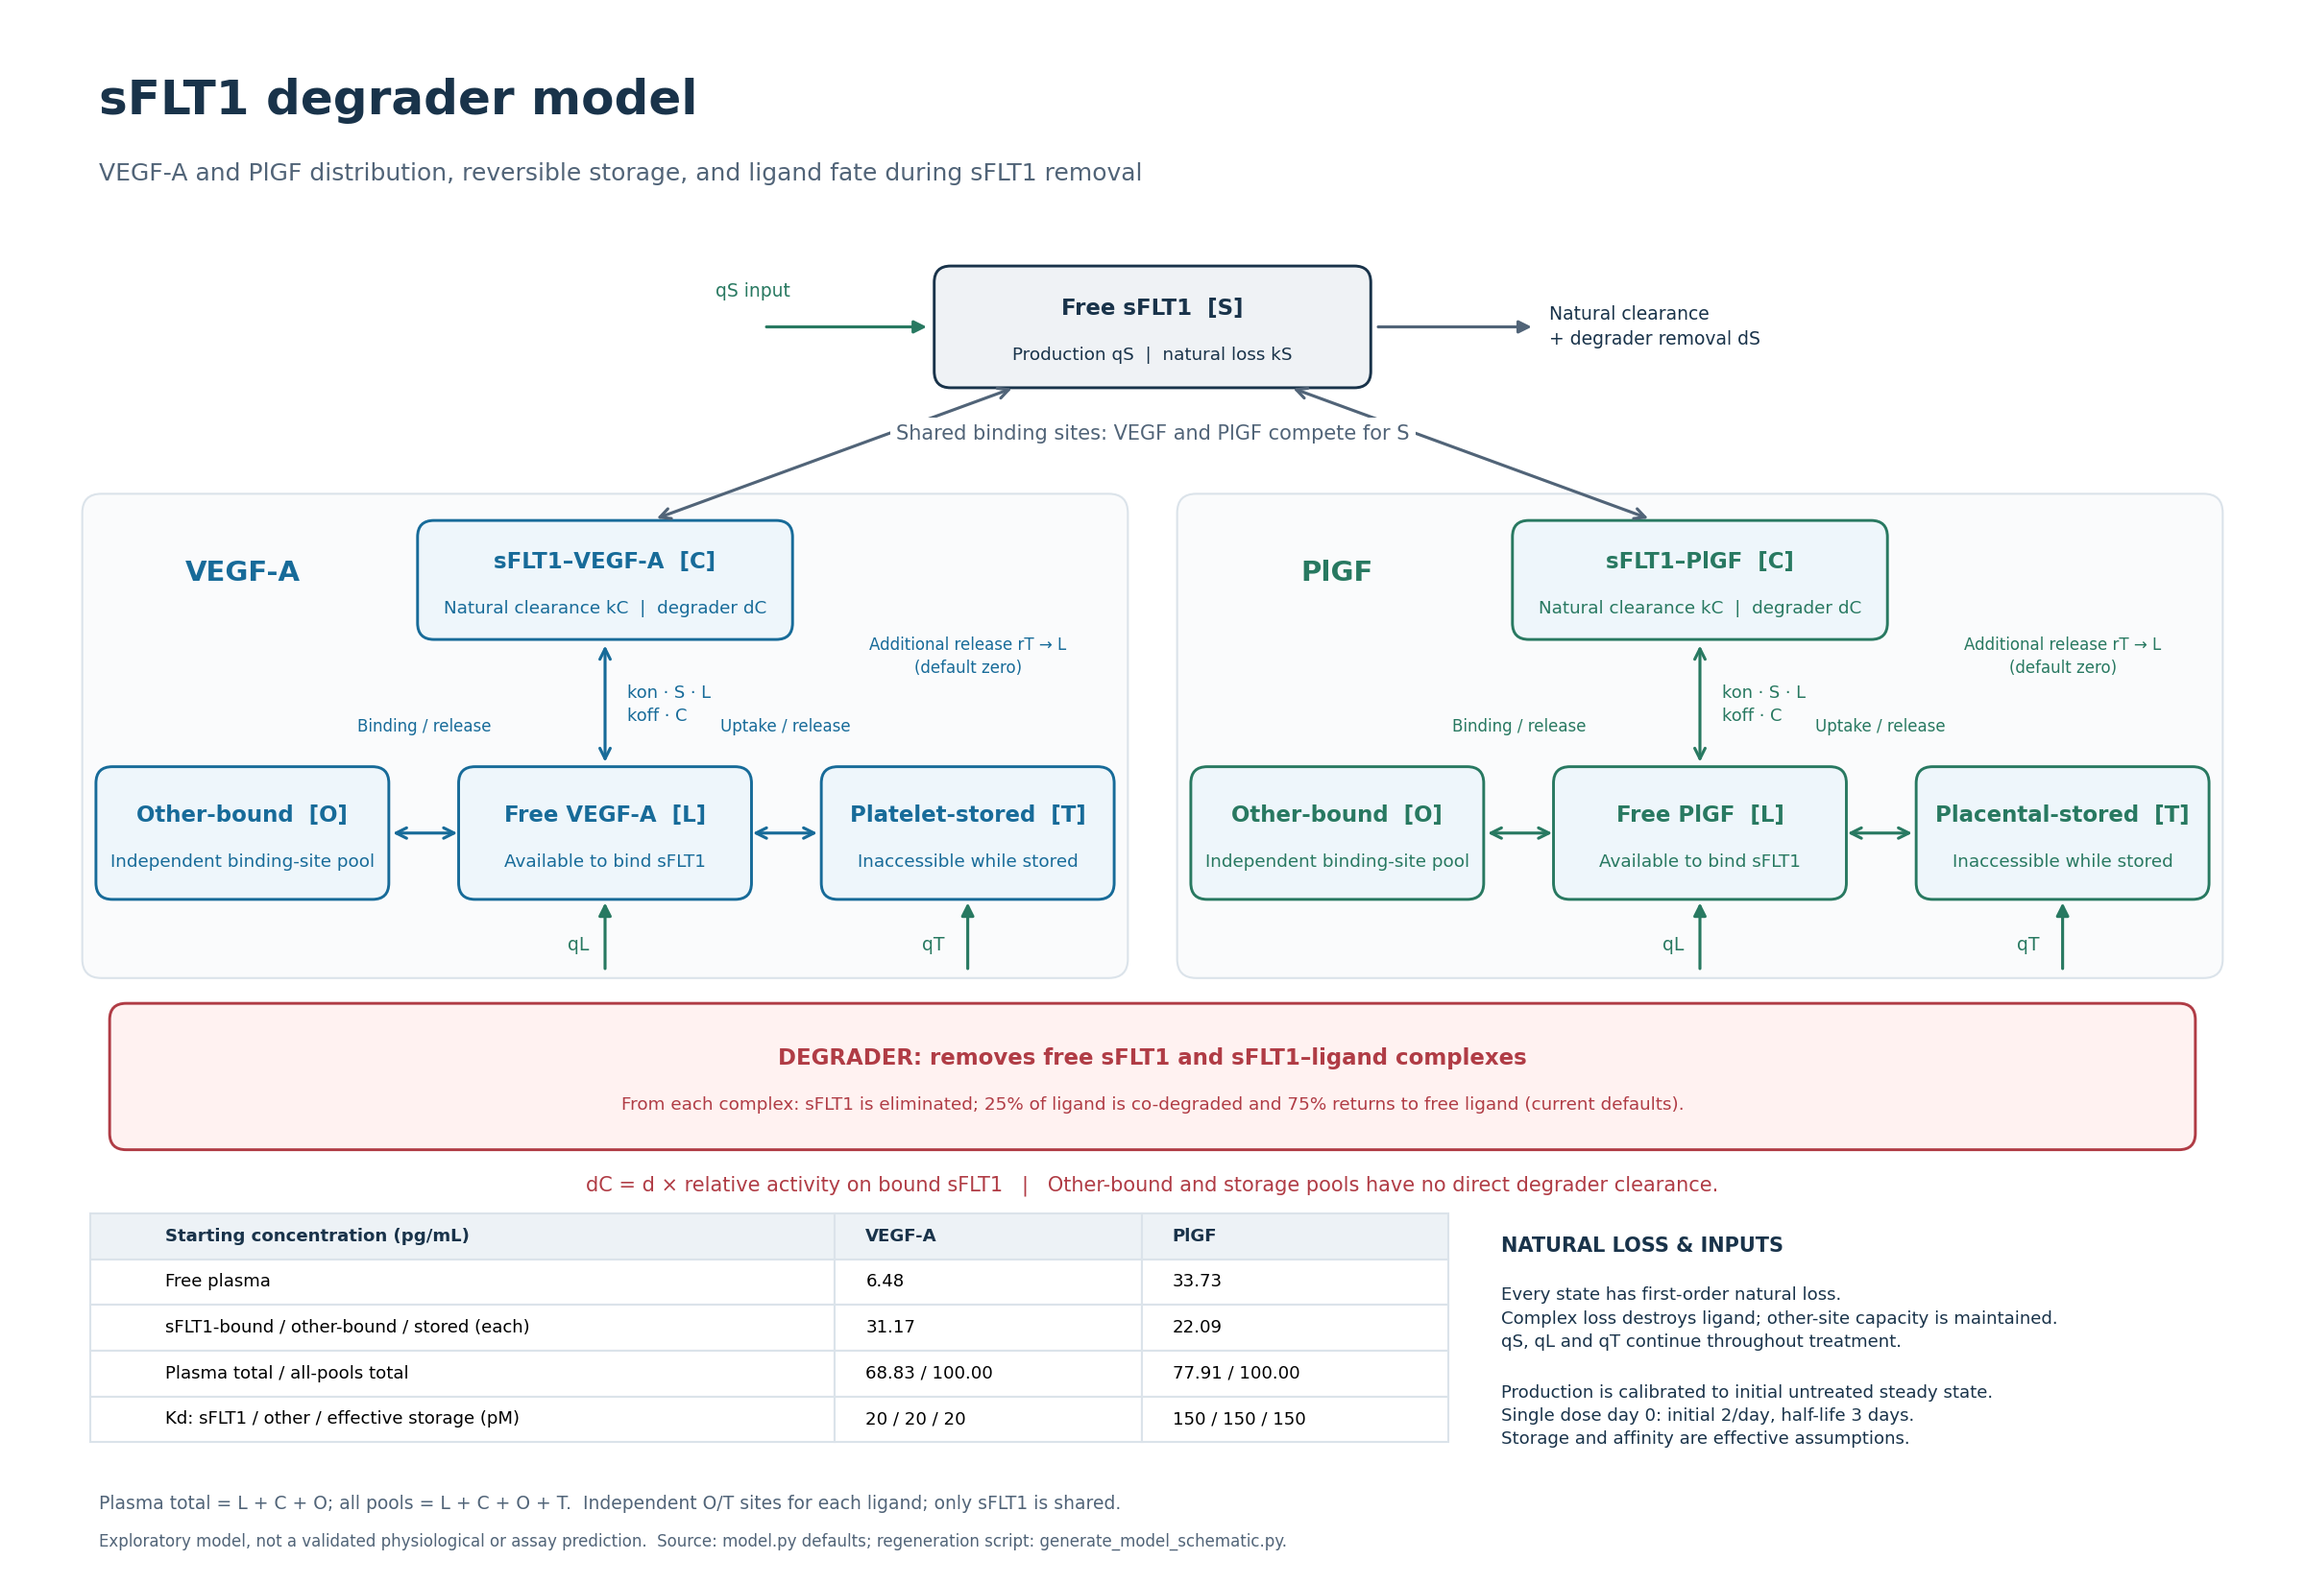
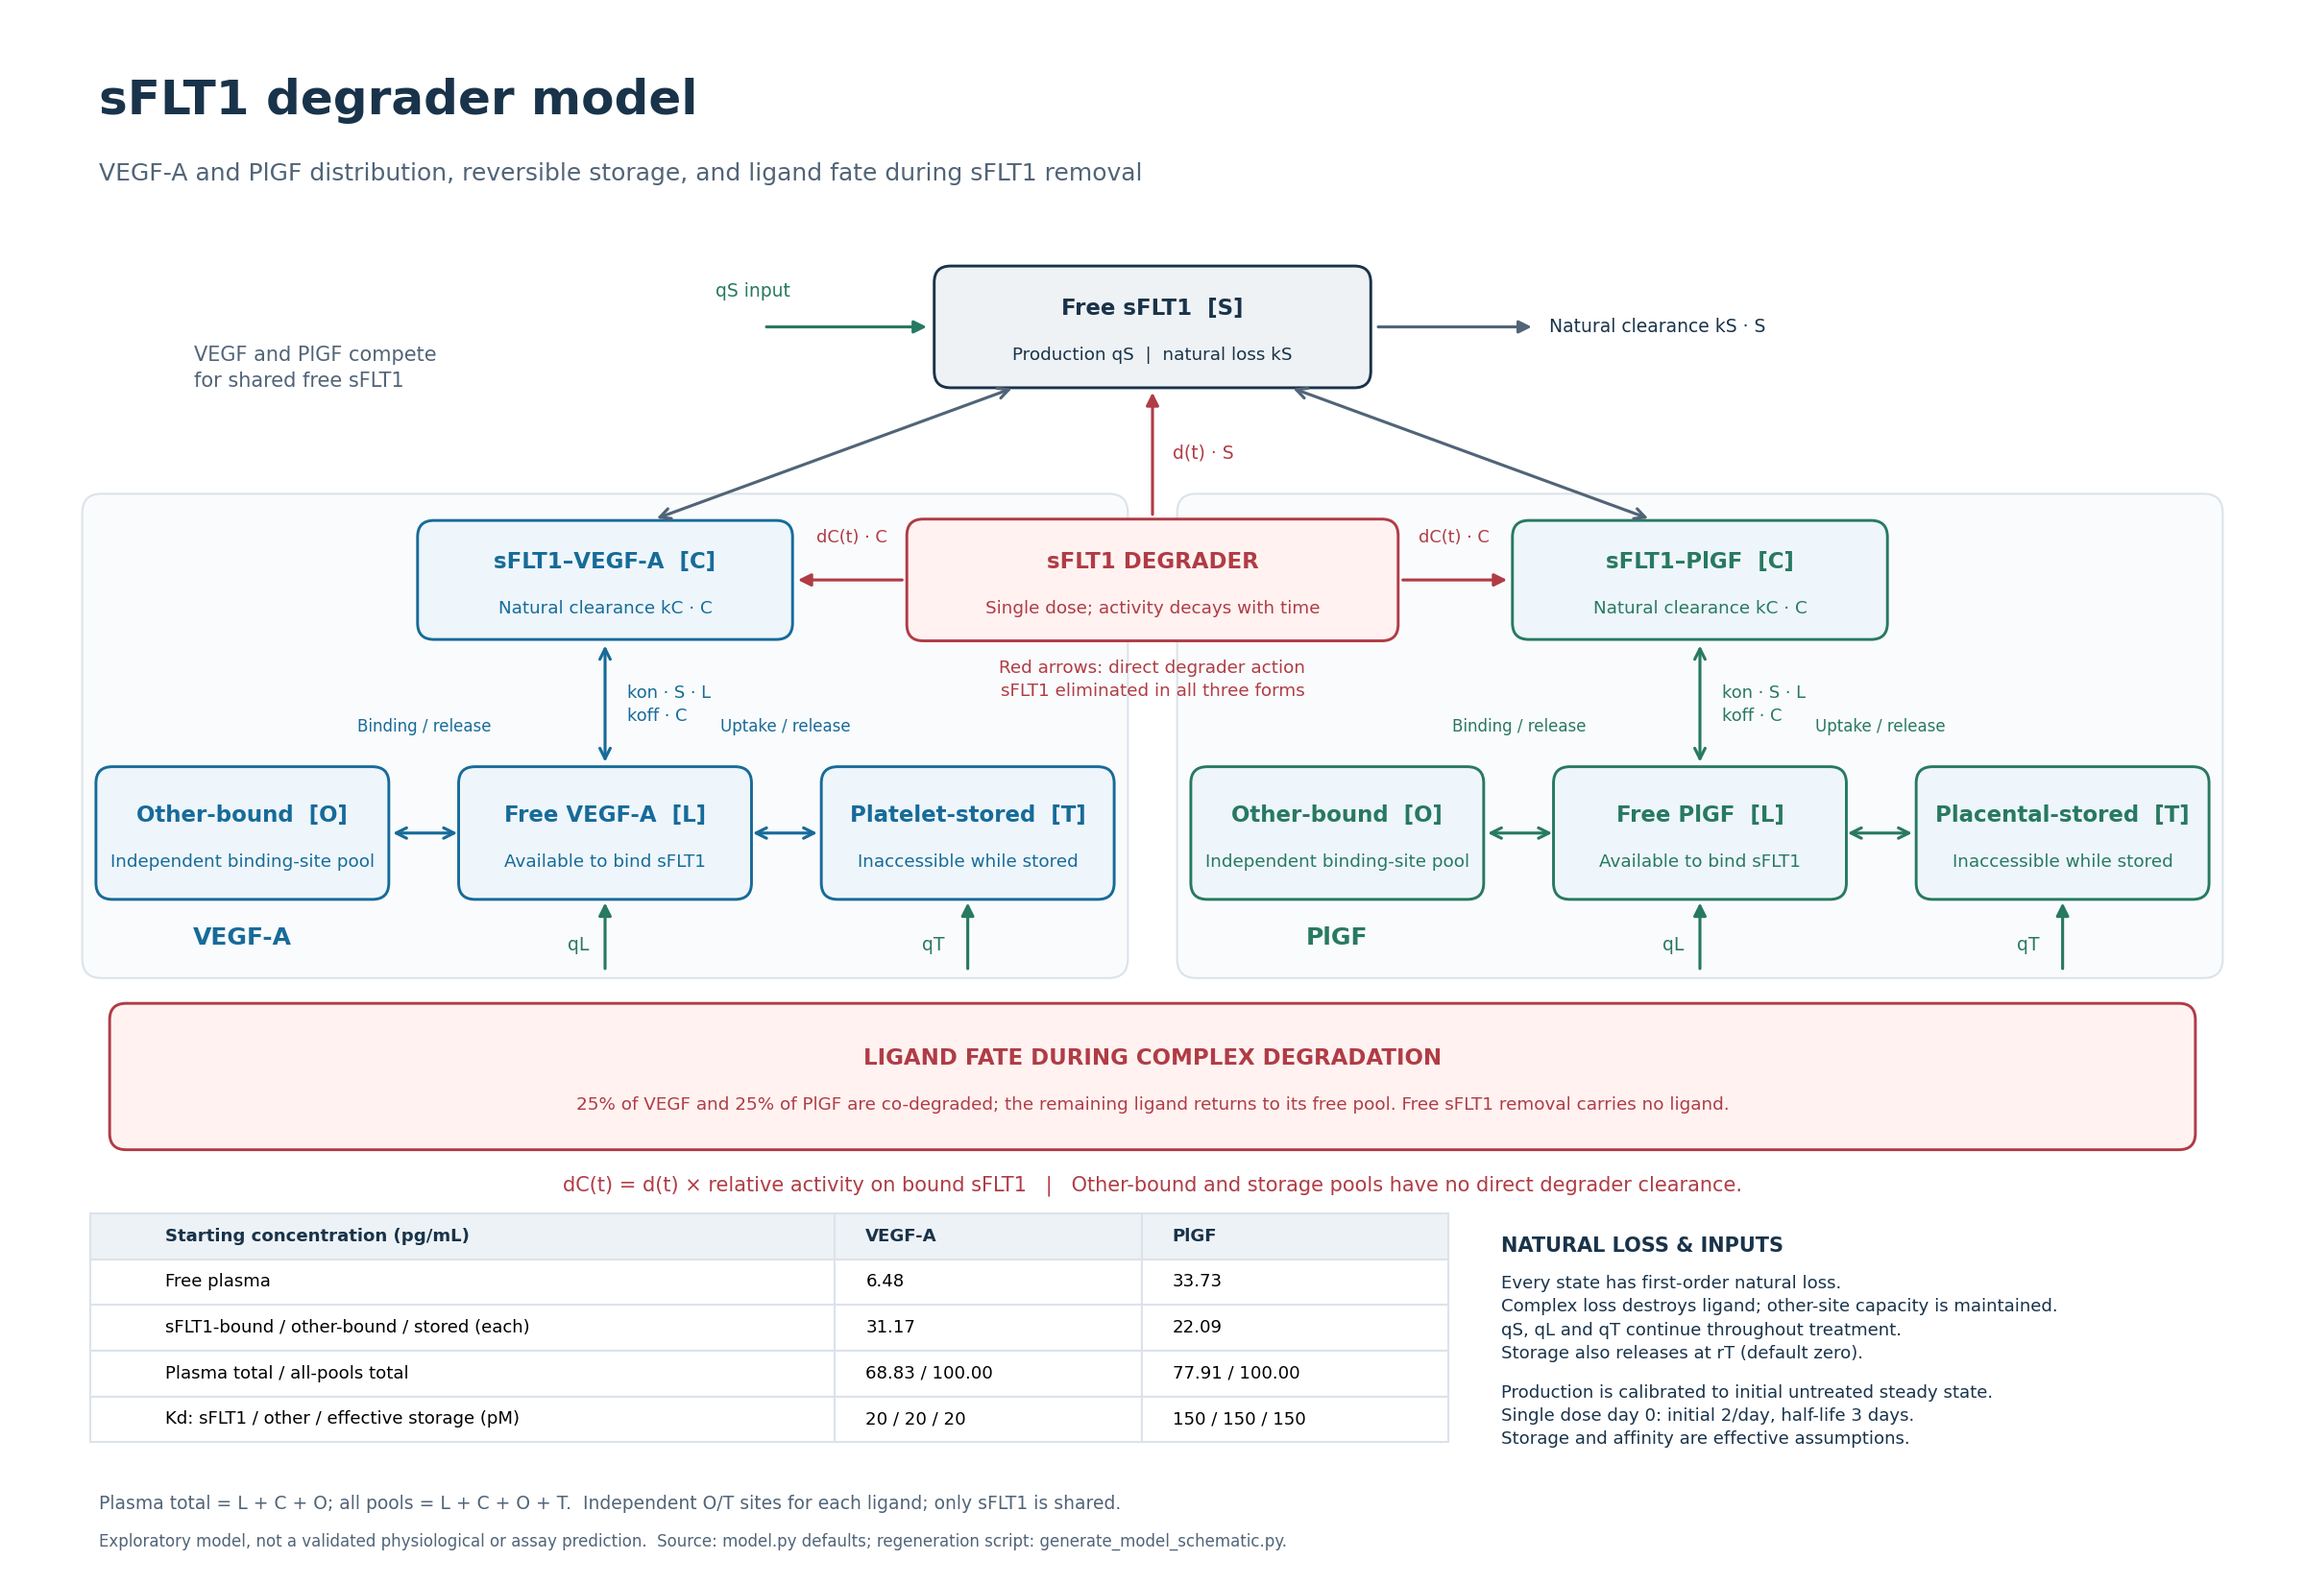
Connect degrader to all three sFLT1 species in schematic

diff --git a/generate_model_schematic.py b/generate_model_schematic.py
@@ -28,16 +28,16 @@ def arrow(a,b,color=muted,both=False,style='solid',curve=0):
 text(.3,10.55,'sFLT1 degrader model',24,weight='bold',ha='left')
 text(.3,10.02,'VEGF-A and PlGF distribution, reversible storage, and ligand fate during sFLT1 removal',12,muted,ha='left')
 box(8,8.9,3.1,.8,'Free sFLT1  [S]',f'Production qS  |  natural loss kS',color=ink,fill='#eff2f5')
-text(8,8.12,'Shared binding sites: VEGF and PlGF compete for S',10,muted).set_bbox(dict(facecolor='white',edgecolor='none',pad=3))
+text(1.0,8.6,'VEGF and PlGF compete\nfor shared free sFLT1',10,muted,ha='left')
 arrow((5.15,8.9),(6.38,8.9),green)
 text(5.08,9.16,'qS input',9,green)
 arrow((9.62,8.9),(10.8,8.9))
-text(10.9,8.9,'Natural clearance\n+ degrader removal dS',9,ha='left')
+text(10.9,8.9,'Natural clearance kS · S',9,ha='left')
 
 for center,ligand,label,color in [(4,'vegf','VEGF-A',blue),(12,'plgf','PlGF',green)]:
     # Light lane boundary keeps independent binder/storage capacities distinct.
     ax.add_patch(FancyBboxPatch((center-3.8,4.16),7.6,3.5,boxstyle='round,pad=0.02,rounding_size=0.14',facecolor='#fafbfc',edgecolor='#dbe3ea',zorder=-1))
-    box(center,7.05,2.65,.78,f'sFLT1–{label}  [C]', 'Natural clearance kC  |  degrader dC',color=color)
+    box(center,7.05,2.65,.78,f'sFLT1–{label}  [C]', 'Natural clearance kC · C',color=color)
     box(center,5.2,2.05,.88,f'Free {label}  [L]', 'Available to bind sFLT1',color=color)
     box(center-2.65,5.2,2.05,.88,'Other-bound  [O]','Independent binding-site pool',color=color)
     box(center+2.65,5.2,2.05,.88,('Platelet-stored  [T]' if ligand=='vegf' else 'Placental-stored  [T]'),'Inaccessible while stored',color=color)
@@ -47,19 +47,31 @@ for center,ligand,label,color in [(4,'vegf','VEGF-A',blue),(12,'plgf','PlGF',gre
     text(center-1.32,5.98,'Binding / release',8,color)
     arrow((center+1.05,5.2),(center+1.58,5.2),color,both=True)
     text(center+1.32,5.98,'Uptake / release',8,color)
-    text(center+2.65,6.49,'Additional release rT → L\n(default zero)',8,color)
+    # Additional storage release rT is summarized in the notes below.
     # Replenishment and free production are external sources.
     arrow((center,4.18),(center,4.72),green)
     text(center-.12,4.38,'qL',9,green,ha='right')
     arrow((center+2.65,4.18),(center+2.65,4.72),green)
     text(center+2.48,4.38,'qT',9,green,ha='right')
     arrow((7.0 if center==4 else 9.0,8.46),(center+.35 if center==4 else center-.35,7.49),muted,both=True)
-    text(center-2.65,7.1,label,14,color,'bold')
+    text(center-2.65,4.43,label,12,color,'bold')
 
-# A single shared fate panel applies identically to both ligand complexes.
-box(8,3.42,15.15,.98,'DEGRADER: removes free sFLT1 and sFLT1–ligand complexes',
-    'From each complex: sFLT1 is eliminated; 25% of ligand is co-degraded and 75% returns to free ligand (current defaults).',red,'#fff2f1')
-text(8,2.62,'dC = d × relative activity on bound sFLT1   |   Other-bound and storage pools have no direct degrader clearance.',10,red)
+# A shared degrader acts directly on all three sFLT1 species.
+# Red arrows denote effective degradation activity, not mass transfer or
+# an explicit degrader-binding state (no degrader Kd is assumed).
+box(8,7.05,3.5,.8,'sFLT1 DEGRADER',
+    'Single dose; activity decays with time',red,'#fff2f1')
+arrow((8,7.50),(8,8.45),red)
+text(8.15,7.98,'d(t) · S',9,red,ha='left')
+arrow((6.20,7.05),(5.38,7.05),red)
+text(5.80,7.36,'dC(t) · C',8.5,red)
+arrow((9.80,7.05),(10.62,7.05),red)
+text(10.20,7.36,'dC(t) · C',8.5,red)
+text(8,6.32,'Red arrows: direct degrader action\nsFLT1 eliminated in all three forms',8.8,red)
+
+box(8,3.42,15.15,.98,'LIGAND FATE DURING COMPLEX DEGRADATION',
+    f'{p.co_v:.0%} of VEGF and {p.co_p:.0%} of PlGF are co-degraded; the remaining ligand returns to its free pool. Free sFLT1 removal carries no ligand.',red,'#fff2f1')
+text(8,2.62,'dC(t) = d(t) × relative activity on bound sFLT1   |   Other-bound and storage pools have no direct degrader clearance.',10,red)
 
 # Compact parameter summary, generated rather than copied from past results.
 rows=[['Starting concentration (pg/mL)','VEGF-A','PlGF'],
@@ -73,7 +85,7 @@ for (i,j),cell in table.get_celld().items():
     cell.set_edgecolor('#dbe3ea');cell.set_facecolor('#edf2f6' if i==0 else 'white')
     if i==0:cell.set_text_props(weight='bold',color=ink)
 text(10.55,2.18,'NATURAL LOSS & INPUTS',10,weight='bold',ha='left')
-text(10.55,1.65,'Every state has first-order natural loss.\nComplex loss destroys ligand; other-site capacity is maintained.\nqS, qL and qT continue throughout treatment.',8.7,ha='left')
+text(10.55,1.65,'Every state has first-order natural loss.\nComplex loss destroys ligand; other-site capacity is maintained.\nqS, qL and qT continue throughout treatment.\nStorage also releases at rT (default zero).',8.7,ha='left')
 text(10.55,.94,'Production is calibrated to initial untreated steady state.\nSingle dose day 0: initial 2/day, half-life 3 days.\nStorage and affinity are effective assumptions.',8.7,ha='left')
 text(.3,.3,'Plasma total = L + C + O; all pools = L + C + O + T.  Independent O/T sites for each ligand; only sFLT1 is shared.',9,muted,ha='left')
 text(.3,.02,'Exploratory model, not a validated physiological or assay prediction.  Source: model.py defaults; regeneration script: generate_model_schematic.py.',8,muted,ha='left')

diff --git a/app.py b/app.py
@@ -44,7 +44,7 @@ with defaults_tab:
 
 with schematic_tab:
     st.subheader('Model schematic')
-    st.caption('Reference diagram showing the model structure and default parameters, including 25% co-degradation. It does not change when you adjust the simulation inputs.')
+    st.caption('Reference diagram showing direct degrader action on free sFLT1, sFLT1–VEGF and sFLT1–PlGF, including 25% ligand co-degradation. It does not change when you adjust the simulation inputs.')
     assets = Path(__file__).resolve().parent
     st.image(str(assets / 'model_schematic.png'), use_container_width=True)
     st.download_button(
